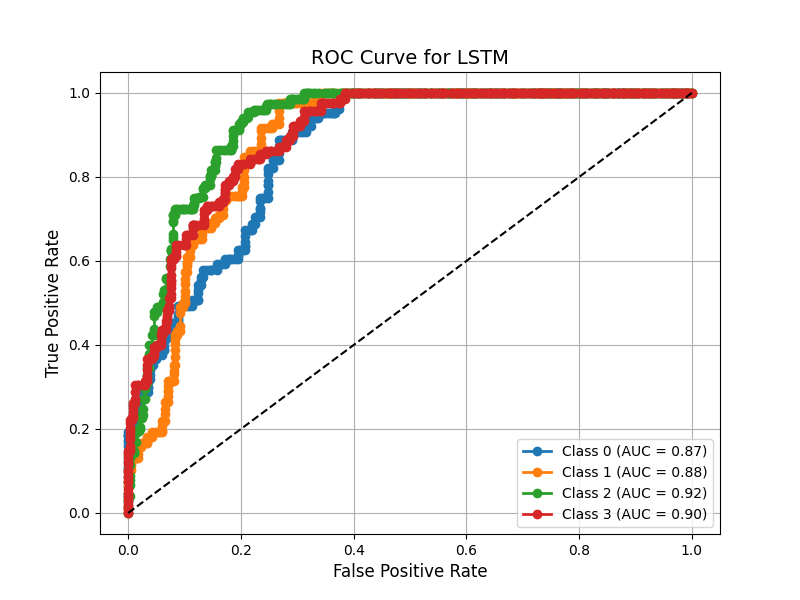
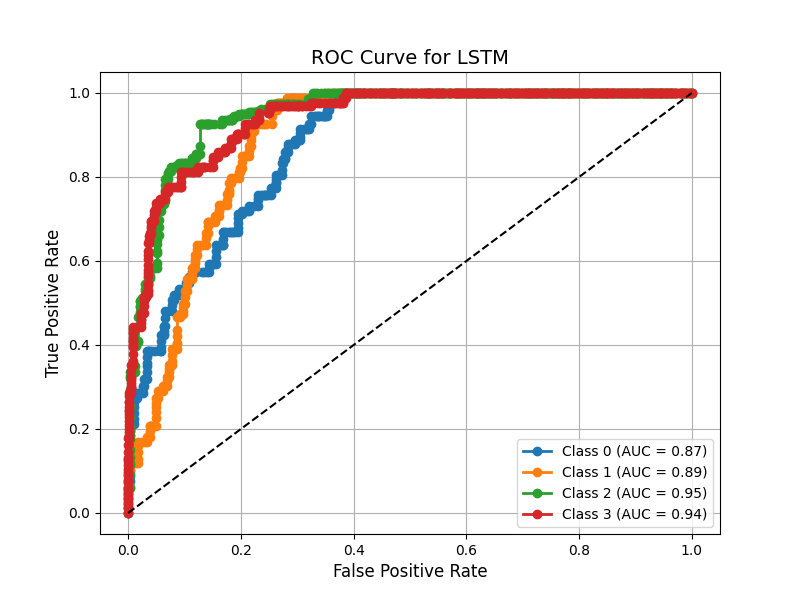
Code Improvement

Changed region(s): [[0.1562, 0.15, 0.4375, 0.81], [0.8438, 0.84, 0.875, 0.87]]

diff --git a/Engine/Arguments/ArgumentsAST.py b/Engine/Arguments/ArgumentsAST.py
@@ -18,9 +18,9 @@ except ImportError as error:
 
 DEFAULT_OVERLAP = 2
 
-DEFAULT_SIZE_BATCH = 32
+DEFAULT_SIZE_BATCH = 8
 DEFAULT_SIZE_FFT = 1024
-DEFAULT_HEAD_SIZE = 256
+DEFAULT_HEAD_SIZE = 64
 DEFAULT_NUMBER_HEADS = 2
 DEFAULT_HOP_LENGTH = 512
 
@@ -31,12 +31,12 @@ DEFAULT_NUMBER_CLASSES = 4
 DEFAULT_DROPOUT_RATE = 0.2
 DEFAULT_NUMBER_EPOCHS = 10
 DEFAULT_AUDIO_DURATION = 10
-DEFAULT_NUMBER_FILTERS = 128
+DEFAULT_NUMBER_FILTERS = 64
 
 DEFAULT_SIZE_PATCH = (16, 16)
 DEFAULT_WINDOW_SIZE_FACTOR = 40
 DEFAULT_FILE_EXTENSION = '*.wav'
-DEFAULT_PROJECTION_DIMENSION = 32
+DEFAULT_PROJECTION_DIMENSION = 16
 DEFAULT_DECIBEL_SCALE_FACTOR = 80
 DEFAULT_OPTIMIZER_FUNCTION = 'adam'
 DEFAULT_NORMALIZATION_EPSILON = 1e-6

diff --git a/Engine/Models/Process/AST_Process.py b/Engine/Models/Process/AST_Process.py
@@ -176,7 +176,7 @@ class ProcessAST(ClassBalancer, SpectrogramPatcher, WindowGenerator, BaseProcess
     def train(self) -> tuple:
 
         history_model = None
-        features, labels = self.load_dataset(self.dataset_directory), None
+        features, labels = self.load_dataset(self.dataset_directory)
         number_patches, metrics_list, confusion_matriz_list, labels = (features.shape[1], [], [],
                                                                        numpy.array(labels).astype(float))
 

diff --git a/Engine/Models/Process/Conformer_Process.py b/Engine/Models/Process/Conformer_Process.py
@@ -113,7 +113,6 @@ class ProcessConformer(ClassBalancer, WindowGenerator, BaseProcess, Metrics):
 
                 except Exception as e:
                     logging.error(f"Error processing file '{file_name}': {e}")
-        print(numpy.array(list_spectrogram).shape)
 
         # Reshape the feature array to the expected dimensions
         array_features = numpy.array(list_spectrogram).reshape(
